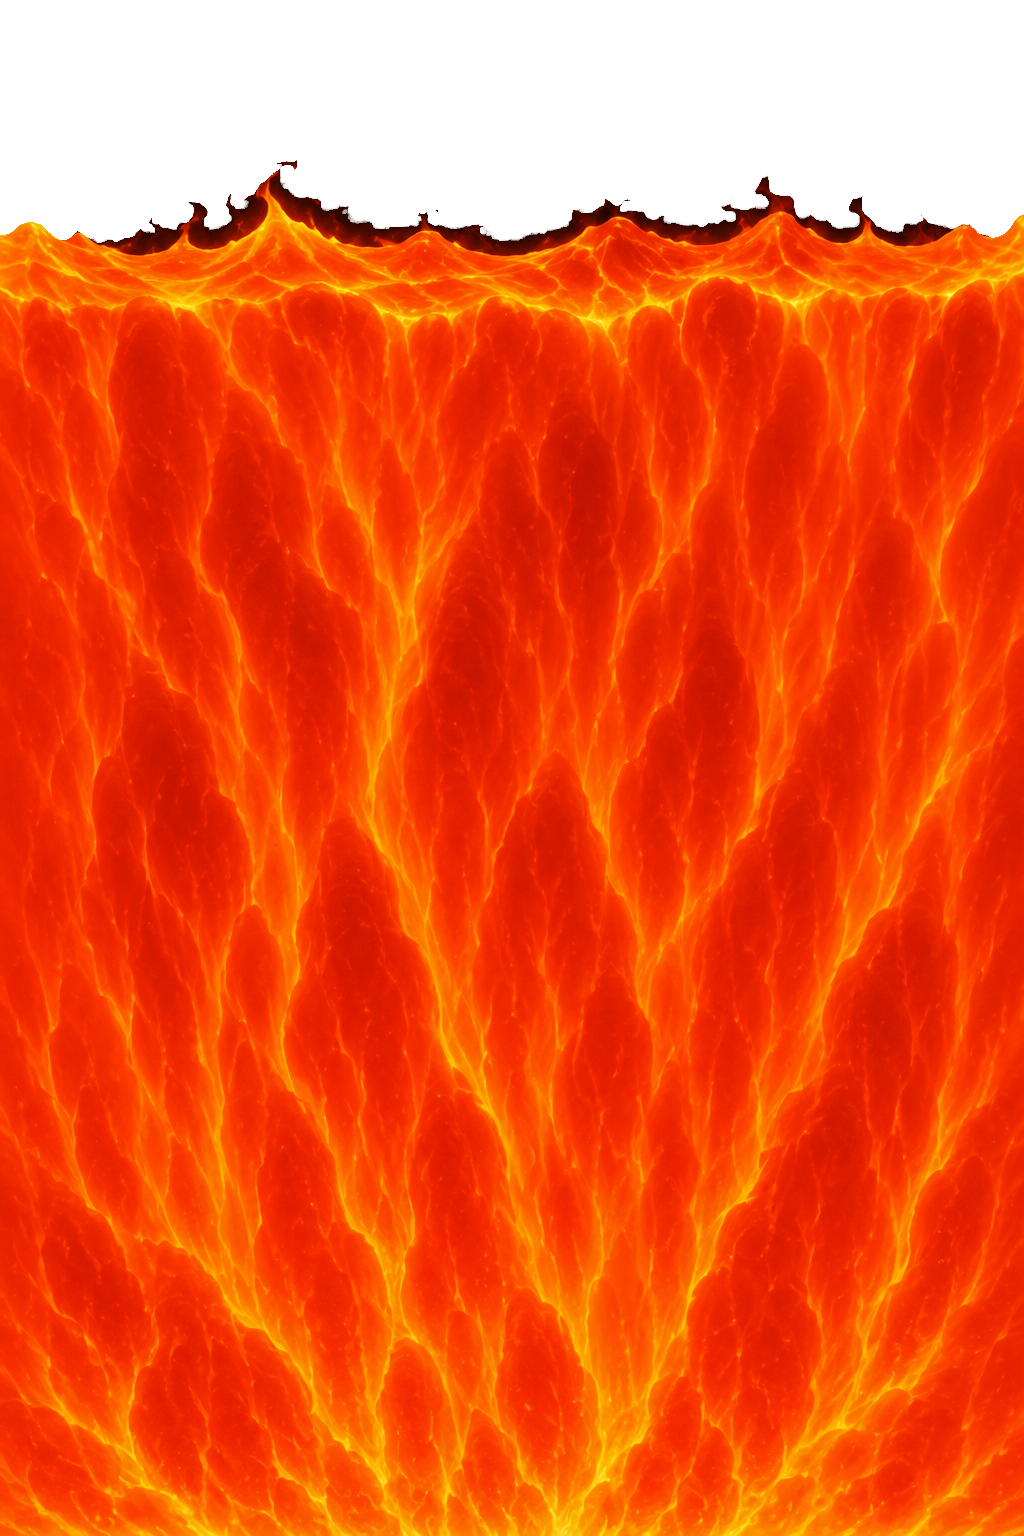
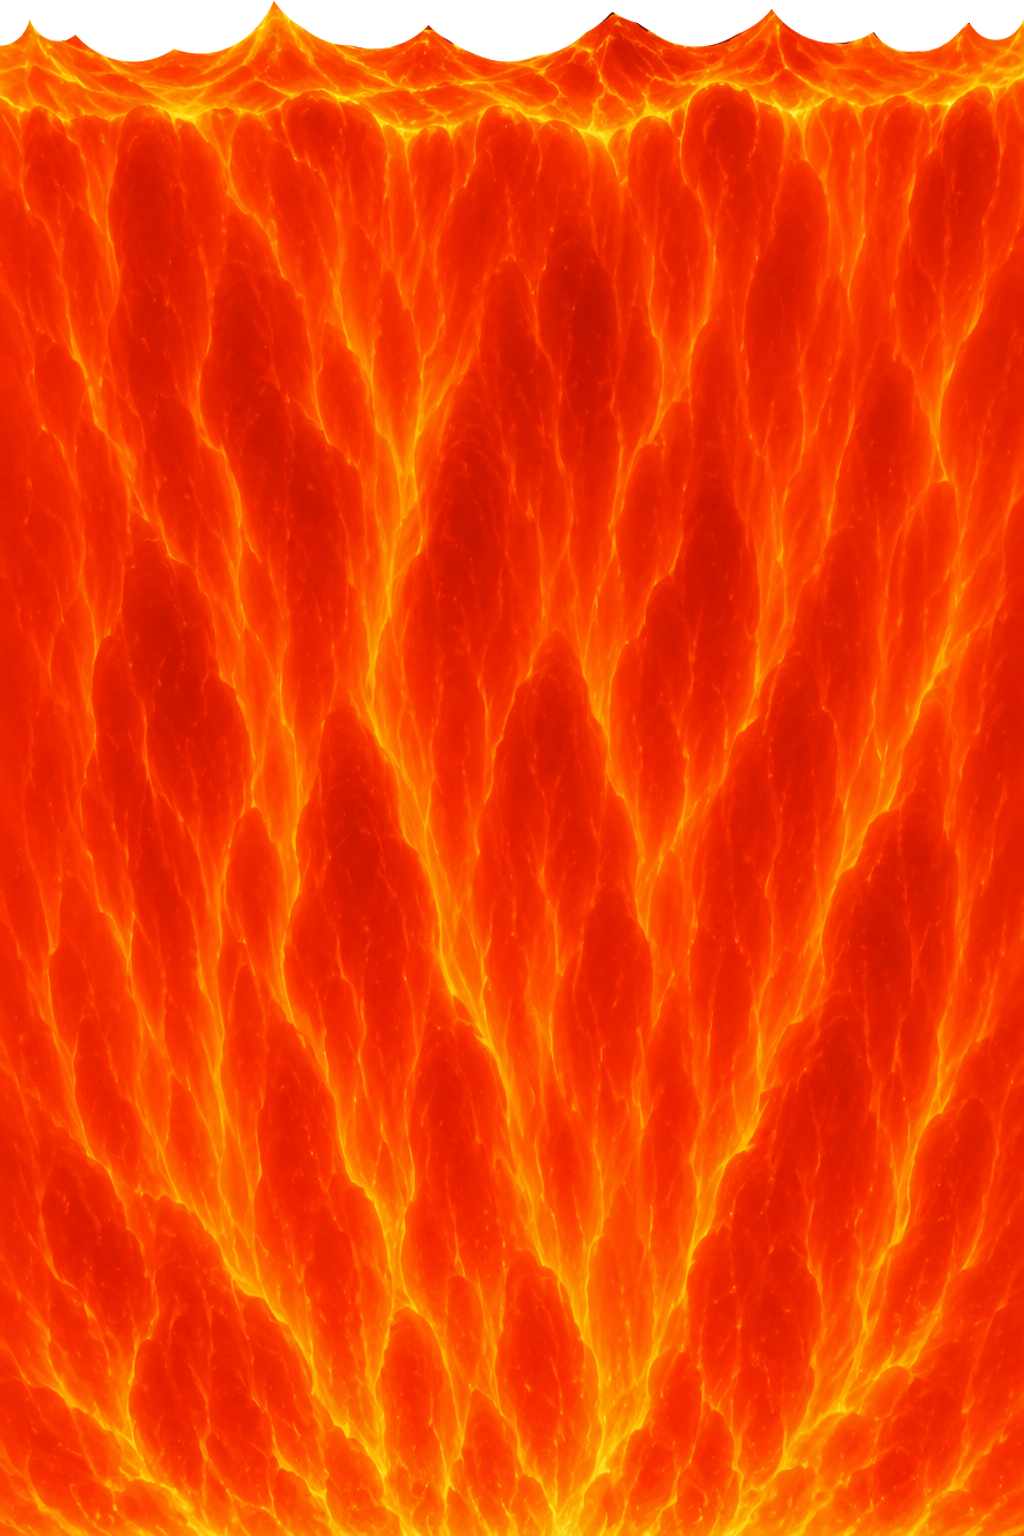
modif postion lave

diff --git a/src/game/scenes/GameplayScene.ts b/src/game/scenes/GameplayScene.ts
@@ -106,9 +106,9 @@ const PLAYER_MANUAL_HITBOX_HEIGHT_RATIO = 0.58;
 const LAVA_START_DELAY_MS = 1_000;
 const LAVA_RISE_SPEED = 42;
 const LAVA_START_Y = GROUND_Y + GROUND_DIRT_HEIGHT;
-const LAVA_ALPHA = 0.88;
-const LAVA_DEPTH = 7;
-const LAVA_PLAYER_BOTTOM_CONTACT_OFFSET = 250;
+const LAVA_ALPHA = 1;
+const LAVA_DEPTH = 13;
+const LAVA_PLAYER_BOTTOM_CONTACT_OFFSET = 100;
 
 interface GroundForestDecor {
   textureKey: string;